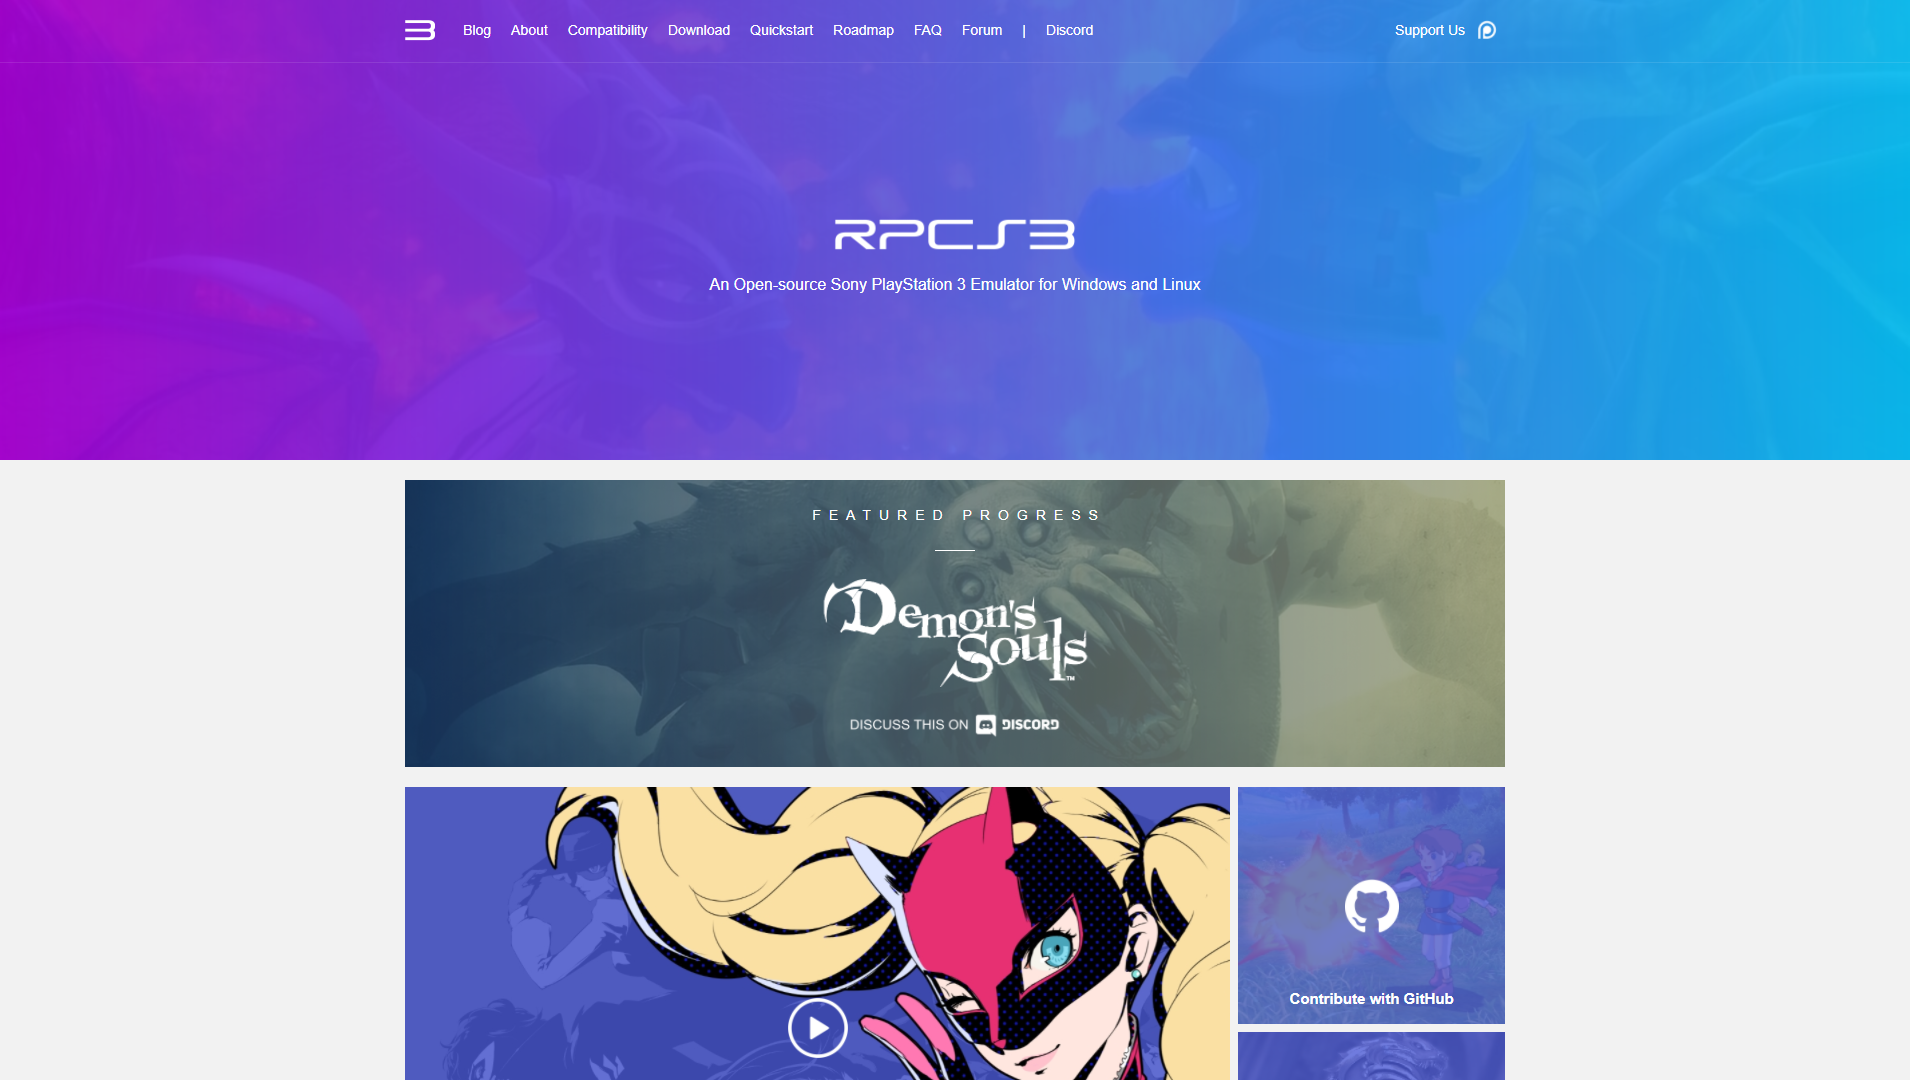
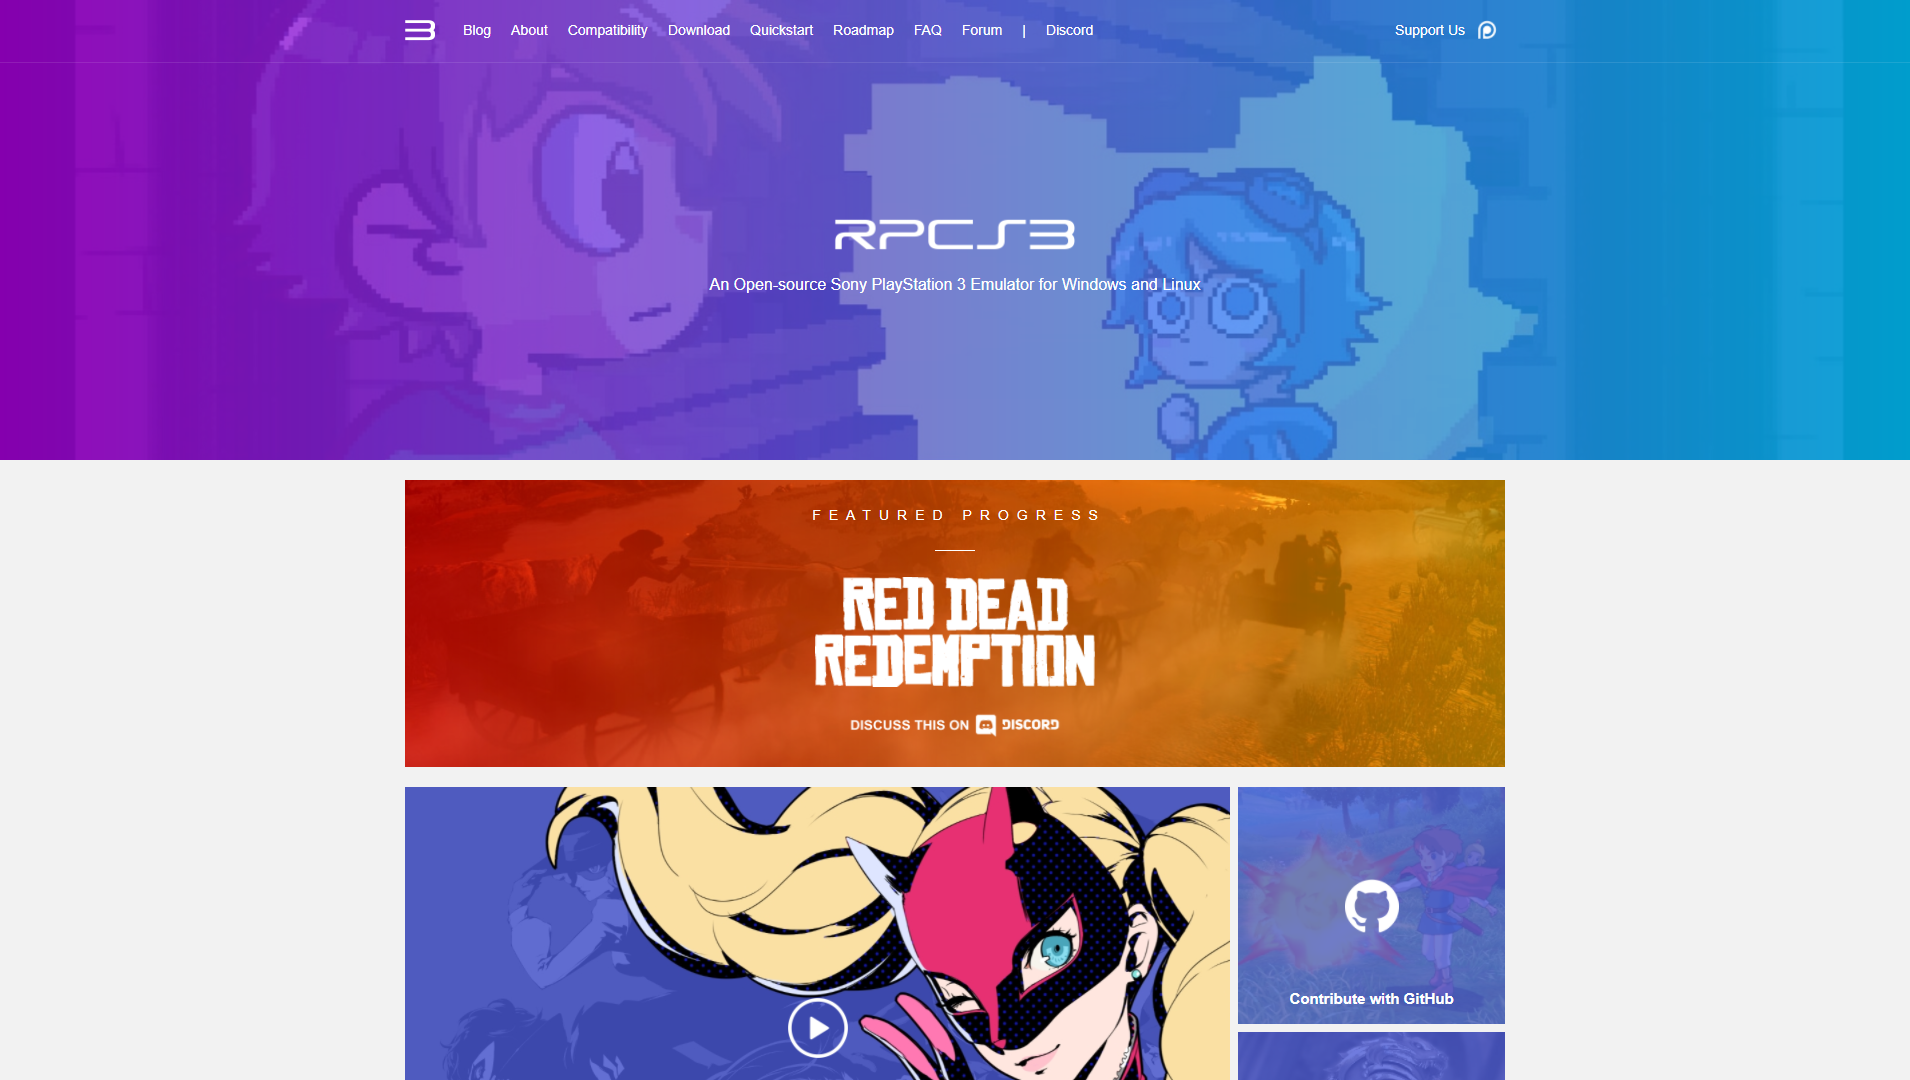
Updated preview image, fixed links, tweaked styles

diff --git a/public_html/lib/css/main.css b/public_html/lib/css/main.css
@@ -5,7 +5,7 @@
 	width:100%;
 	height:100%;
 	min-height:100%;
-	margin:0;
+	/* margin:0; */
 }
 #page-con-container {
 	position:relative;
@@ -109,7 +109,7 @@ font-family: arial;
 	position:absolute;
 	width:100%;
 	height:100%;
-	background:linear-gradient(to right,rgba(166,0,217,.9),rgba(0,196,255,.9));
+	background:linear-gradient(to right,rgba(166,0,217,.8),rgba(0,196,255,.8));
 }
 #header-con-body {
 	position:absolute;
@@ -179,7 +179,7 @@ font-family: arial;
 	top:0;
 	width:100%;
 	height:100%;
-	background:linear-gradient(to right,rgba(24,58,99,.8),rgba(150,156,122,.8));
+	background: linear-gradient(to right,rgba(255, 0, 0, 0.6),rgba(255, 188, 0, 0.6));
 }
 #spotlight-img-body {
 	position:absolute;
@@ -202,20 +202,6 @@ font-family: arial;
 	letter-spacing:8px;
 	color:#fff;
 }
-#spotlight-tx2-body {
-	font-family:arial;
-	font-size:14px;
-	line-height:24px;
-	position:relative;
-	z-index:2;
-	display:none;
-	height:auto;
-	margin-bottom:20px;
-	padding-right:150px;
-	padding-left:150px;
-	text-align:center;
-	color:#fff;
-}
 #spotlight-div-body {
 	position:relative;
 	z-index:2;
@@ -233,7 +219,7 @@ font-family: arial;
 	text-align:center;
 	color:#fff;
 	background: url(/img/spotlight/title.png) no-repeat center bottom;
-	background-size:300px;
+	background-size: 280px;
 }
 #spotlight-btn-body {
 	position:relative;

diff --git a/public_html/lib/module/ui-footer.php b/public_html/lib/module/ui-footer.php
@@ -11,8 +11,8 @@
 	<div id="footer-con-credits">
 		<div id='footer-tx1-credits'>
 			<p>
-				<a href='https://github.com/DAGINATSUKO' target="_blank" title="View DAGINATSUKO's GitHub profile">Website by DAGINATSUKO</a>
-				&nbsp; &nbsp;<a href='https://github.com/AniLeo' target="_blank" title="View AniLeo's GitHub profile">Compatibility List by AniLeo</a>
+				<a href='https://github.com/DAGINATSUKO' target="_blank" title="View DAGINATSUKO on GitHub">Website by DAGINATSUKO</a>
+				&nbsp; &nbsp;<a href='https://github.com/AniLeo' target="_blank" title="View AniLeo on GitHub">Compatibility List by AniLeo</a>
 				&nbsp; &nbsp;<a href='https://github.com/DAGINATSUKO/www-rpcs3' target="_blank" title="Download this website's source code on GitHub">Website Source</a>
 				&nbsp; &nbsp;<a href='/disclaimer' title="View legal disclaimer">Disclaimer</a>
 				&nbsp; &nbsp; Copyright © 2017

diff --git a/public_html/lib/module/block-spotlight.php b/public_html/lib/module/block-spotlight.php
@@ -10,19 +10,8 @@
 	</div>
 	<div id='spotlight-img-body'>
 	</div>
-	<div id='spotlight-tx2-body'>
-		<p>
-			Null
-		</p>
-	</div>
 	<a href='https://discord.me/RPCS3' target="_blank">
 	<div id='spotlight-btn-body' title="Join the discussion on Discord">
 	</div>
 	</a>
-	<div style="display:none">
-		<div class="visual-wavebar-1">
-		</div>
-		<div class="visual-wavebar-1 delayed-fade" style="display:none;">
-		</div>
-	</div>
 </div>

diff --git a/public_html/lib/module/ui-sidebar-quickstart.php b/public_html/lib/module/ui-sidebar-quickstart.php
@@ -1,5 +1,5 @@
 <body>
-<div class="nav-standard" id="navsidebar-btn-open" style="display: block;" title="Show menu">
+<div class="nav-standard" id="navsidebar-btn-open" style="display: block;" title="Menu">
 </div>
 <div class='toggle-navsidebar' id='navsidebar-con-dim' style="display:block">
 	<div class='dropin-load lightmode-navsidebar-anim' id='navsidebar-con-anim'>

diff --git a/public_html/quickstart.php b/public_html/quickstart.php
@@ -318,6 +318,9 @@
 							 • LG <b class="txt-highlight lightmode-highlight">WH16NS40</b>
 						</p>
 						<p>
+							 • LG <b class="txt-highlight lightmode-highlight">WH14NS40</b>
+						</p>
+						<p>
 							 • LG <b class="txt-highlight lightmode-highlight">WH16NS48</b>
 						</p>
 						<p>

diff --git a/public_html/lib/module/ui-menu.php b/public_html/lib/module/ui-menu.php
@@ -3,7 +3,7 @@
 	</div>
 	<div id="menu-und-level2" class="lightmode-menubar-level2">
 	</div>
-	<div id="menu-btn-lights" title="Home" class="toggle-lightmode">
+	<div id="menu-btn-lights" title="Dark Mode" class="toggle-lightmode">
 	</div>
 	<div id="menu-con-container">
 		<div id="menu-in-container">

diff --git a/public_html/alipay.php b/public_html/alipay.php
@@ -16,7 +16,7 @@
 <?php include 'lib/module/call-php.php';?>
 <div id="page-con-content">
 <div id='img-overlay'></div>
-		<a href='/img/icons/donate/alipay-qr.png' target="_blank">
+		<a href='/img/icons/alipay/alipay-qr.png' target="_blank">
 		<div id="donate-qrc-alipay">
 		</div>
 		</a>

diff --git a/public_html/lib/module/ui-sidebar-blog.php b/public_html/lib/module/ui-sidebar-blog.php
@@ -1,4 +1,4 @@
-<div id="navsidebar-btn-open" class="nav-blog" title="Show menu">
+<div id="navsidebar-btn-open" class="nav-blog" title="Menu">
 </div>
 <div id='navsidebar-con-dim' class='toggle-blogsidebar'>
 	<div id='blogsidebar-con-anim' class='dropin-load lightmode-navsidebar-anim'>
